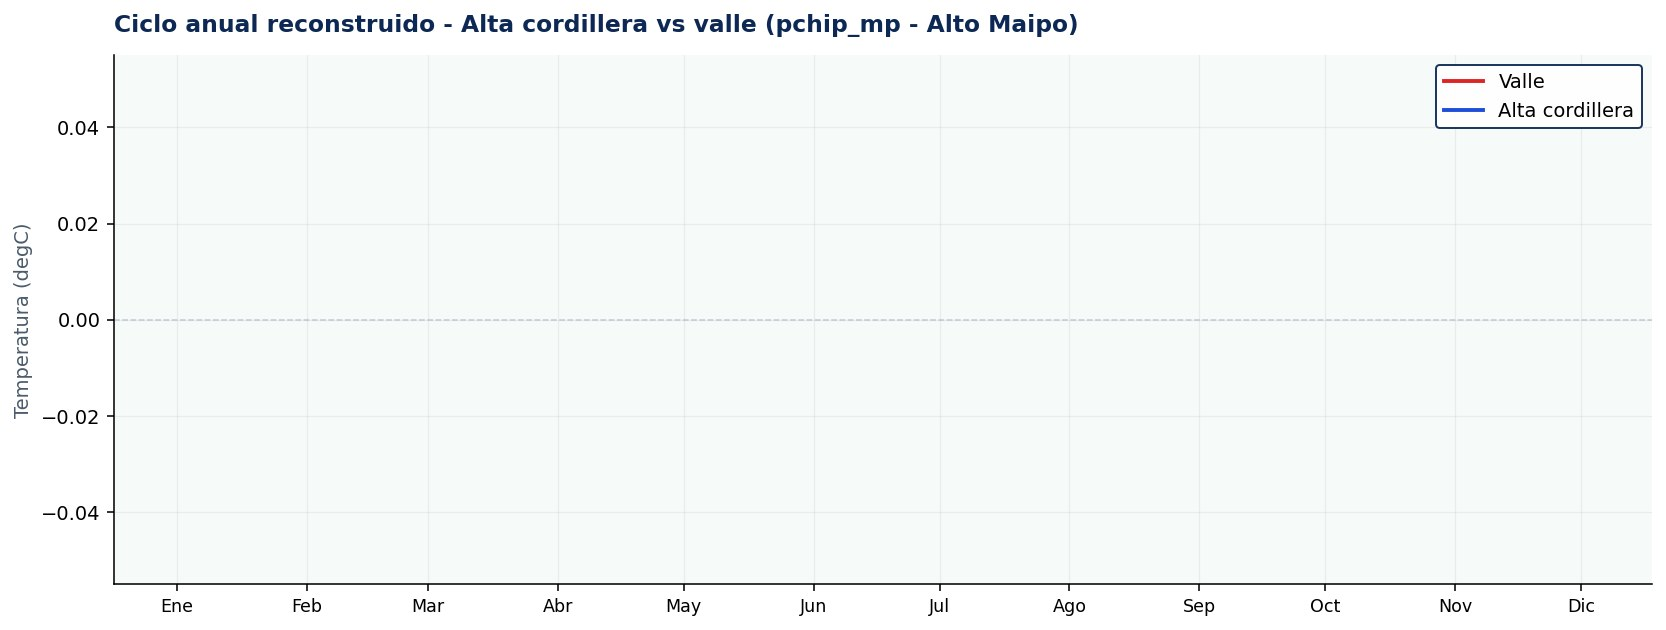
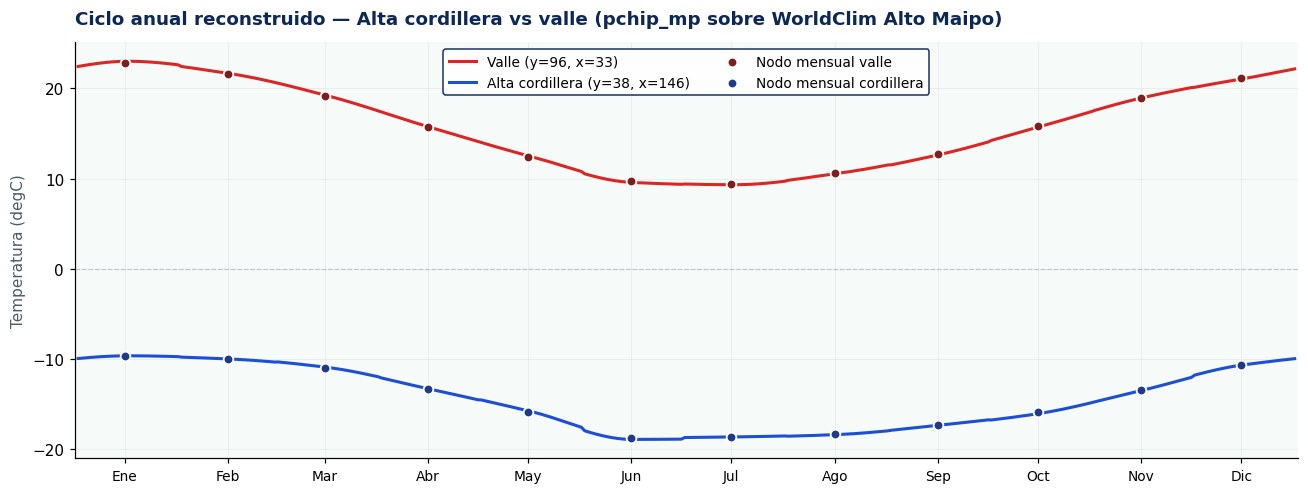
docs(landing): fill max|diff| for akima/cubic and regenerate Maipo figure
Métricas pendientes en la tabla "Métodos y conservación de media":

- akima  → 3.26 × 10⁻¹ °C
- cubic  → 2.82 × 10⁻¹ °C

Medidas sobre el sample sintético WorldClim Chile Central (12 GeoTIFFs →
365 días, target_year=2023, mismo procedimiento que los otros 4 métodos:
worst pixel-wise max|monthly_mean(daily) - monthly_input|).

Asset docs/assets/maipo_pixel_timeseries.jpg estaba vacío (ejes ±0.05 °C
sin trazos visibles). Regenerado desde el notebook 02 ejecutado contra
los WorldClim reales de Alto Maipo (pchip_mp, target_year=2024). El nuevo
gráfico muestra el contraste valle (~23→10 °C) vs alta cordillera
(~-10→-19 °C) con offset altitudinal de ~30 °C.

Scripts utilitarios añadidos para reproducibilidad:
- examples/bench_max_diff.py — recomputa la tabla completa.
- examples/regenerate_maipo_timeseries.py — regenera el JPG del Maipo.

diff --git a/docs/index.html b/docs/index.html
@@ -847,12 +847,12 @@
           <tr>
             <td><span class="method-name"><span class="swatch-bar" style="background:var(--m-akima)"></span>akima</span></td>
             <td>C¹ Akima 1970</td><td>Aproximada</td><td>Medio</td>
-            <td class="diff">agregado en v0.1.4</td>
+            <td class="diff">3.26 × 10⁻¹ °C</td>
           </tr>
           <tr>
             <td><span class="method-name"><span class="swatch-bar" style="background:var(--m-cubic)"></span>cubic</span></td>
             <td>C² spline natural</td><td>Aproximada</td><td>Medio</td>
-            <td class="diff">agregado en v0.1.4</td>
+            <td class="diff">2.82 × 10⁻¹ °C</td>
           </tr>
         </tbody>
       </table>

diff --git a/examples/regenerate_maipo_timeseries.py b/examples/regenerate_maipo_timeseries.py
@@ -1,0 +1,102 @@
+"""Regenera docs/assets/maipo_pixel_timeseries.jpg desde el notebook 02.
+
+Replica exactamente las celdas 5 + 9 + 16 del notebook 02-real-worldclim-maipo.ipynb,
+ejecutando el pipeline pchip_mp sobre WorldClim Alto Maipo y guardando la figura
+del ciclo anual reconstruido.
+"""
+
+from __future__ import annotations
+
+import datetime as _dt
+import shutil
+from pathlib import Path
+
+import matplotlib
+
+matplotlib.use("Agg")
+import matplotlib.pyplot as plt
+import numpy as np
+import rioxarray  # noqa: F401
+import xarray as xr
+
+from tempify.pipeline import PipelineConfig, TempifyPipeline
+
+STACK_PATH = Path("examples/data/worldclim_maipo_alto/wc1_6_maipo_alto_tavg_stack.tif")
+OUT_DIR = Path("examples/out/maipo_pchip_mp")
+ASSET_PATH = Path("docs/assets/maipo_pixel_timeseries.jpg")
+
+
+def main() -> None:
+    monthly = xr.load_dataarray(STACK_PATH)
+    print(f"Monthly: dims={monthly.dims}, shape={monthly.shape}")
+
+    if OUT_DIR.exists():
+        shutil.rmtree(OUT_DIR)
+    cfg = PipelineConfig(
+        method="pchip_mp",
+        target_year=2024,
+        output_dir=OUT_DIR,
+        output_format="netcdf",
+    )
+    result = TempifyPipeline(cfg).run(STACK_PATH)
+    daily = xr.load_dataarray(result.outputs[0])
+    print(f"Daily: shape={daily.shape}, dims={daily.dims}")
+
+    # Localizar pixel mas frio (cordillera) y mas calido (valle) en mes de enero
+    # (mismo criterio que el notebook).
+    jan = daily.isel(time=14).values
+    iy_cold, ix_cold = np.unravel_index(np.nanargmin(jan), jan.shape)
+    iy_warm, ix_warm = np.unravel_index(np.nanargmax(jan), jan.shape)
+
+    series_cold = daily.isel(y=iy_cold, x=ix_cold).values
+    series_warm = daily.isel(y=iy_warm, x=ix_warm).values
+    assert not np.isnan(series_cold).any()
+    assert not np.isnan(series_warm).any()
+
+    month_doy = [int(_dt.date(2024, m, 15).timetuple().tm_yday) for m in range(1, 13)]
+    month_cold = monthly.isel(band=slice(0, 12), y=iy_cold, x=ix_cold).values
+    month_warm = monthly.isel(band=slice(0, 12), y=iy_warm, x=ix_warm).values
+
+    print(f"Pixel cordillera: y={iy_cold}, x={ix_cold}  T_ene={jan[iy_cold, ix_cold]:.1f} degC")
+    print(f"Pixel valle:      y={iy_warm}, x={ix_warm}  T_ene={jan[iy_warm, ix_warm]:.1f} degC")
+
+    fig, ax = plt.subplots(figsize=(12, 4.6), dpi=110)
+    fig.patch.set_facecolor("#ffffff")
+    ax.set_facecolor("#f6faf8")
+    doy_all = np.arange(1, daily.sizes["time"] + 1)
+    ax.plot(doy_all, series_warm, color="#dc2626", linewidth=2.0,
+            label=f"Valle (y={iy_warm}, x={ix_warm})", zorder=3)
+    ax.plot(doy_all, series_cold, color="#1d4ed8", linewidth=2.0,
+            label=f"Alta cordillera (y={iy_cold}, x={ix_cold})", zorder=3)
+    ax.scatter(month_doy, month_warm, color="#7f1d1d", s=40,
+               edgecolors="white", linewidth=1.2, zorder=4, label="Nodo mensual valle")
+    ax.scatter(month_doy, month_cold, color="#1e3a8a", s=40,
+               edgecolors="white", linewidth=1.2, zorder=4, label="Nodo mensual cordillera")
+    ax.set_xlim(0, daily.sizes["time"] + 1)
+    ax.set_xticks([int(_dt.date(2024, m, 15).timetuple().tm_yday) for m in range(1, 13)])
+    ax.set_xticklabels(["Ene", "Feb", "Mar", "Abr", "May", "Jun",
+                        "Jul", "Ago", "Sep", "Oct", "Nov", "Dic"], fontsize=9)
+    ax.axhline(0, color="#94a3b8", linewidth=0.8, linestyle="--", alpha=0.5)
+    ax.set_ylabel("Temperatura (degC)", color="#4a5b6b", fontsize=10)
+    ax.set_title(
+        "Ciclo anual reconstruido — Alta cordillera vs valle (pchip_mp sobre WorldClim Alto Maipo)",
+        color="#0d2854", fontsize=12, fontweight="bold", pad=12, loc="left",
+    )
+    ax.grid(True, alpha=0.18, linewidth=0.6)
+    ax.spines["top"].set_visible(False)
+    ax.spines["right"].set_visible(False)
+    ax.legend(loc="upper center", framealpha=0.95, fontsize=9,
+              edgecolor="#0d2854", ncol=2)
+    plt.tight_layout()
+    ASSET_PATH.parent.mkdir(parents=True, exist_ok=True)
+    plt.savefig(ASSET_PATH, dpi=110, bbox_inches="tight", facecolor="white",
+                pil_kwargs={"quality": 88})
+    plt.close(fig)
+    print(f"\nFigura guardada: {ASSET_PATH} ({ASSET_PATH.stat().st_size // 1024} KB)")
+    print(f"Amplitud termica valle:      {series_warm.max() - series_warm.min():.1f} degC")
+    print(f"Amplitud termica cordillera: {series_cold.max() - series_cold.min():.1f} degC")
+    print(f"Offset valle vs cordillera:  {series_warm.mean() - series_cold.mean():.1f} degC")
+
+
+if __name__ == "__main__":
+    main()

diff --git a/examples/bench_max_diff.py b/examples/bench_max_diff.py
@@ -1,0 +1,66 @@
+"""Benchmark: max |diff| per method on the WorldClim Chile Central sample.
+
+Computes the worst pixel-wise discrepancy between the monthly mean
+reconstructed from the daily output and the original monthly input,
+for the six interpolation methods available in tempify.
+"""
+
+from __future__ import annotations
+
+import shutil
+from pathlib import Path
+
+import numpy as np
+import xarray as xr
+
+from tempify.pipeline import PipelineConfig, TempifyPipeline
+
+DATA_DIR = Path(__file__).parent / "data" / "worldclim_chile_central"
+OUT_ROOT = Path(__file__).parent / "out" / "bench_max_diff"
+METHODS = ["linear", "pchip", "pchip_mp", "fourier", "akima", "cubic"]
+
+
+def _aggregate_to_monthly(daily: xr.DataArray) -> xr.DataArray:
+    return daily.groupby(daily["time"].dt.month).mean(dim="time")
+
+
+def _load_monthly_input() -> xr.DataArray:
+    import rioxarray  # noqa: F401
+    arrays = []
+    for month in range(1, 13):
+        path = DATA_DIR / f"wc2.1_2.5m_tavg_{month:02d}.tif"
+        arrays.append(
+            xr.open_dataarray(path, engine="rasterio").squeeze("band", drop=True)
+        )
+    return xr.concat(arrays, dim="month").assign_coords(month=list(range(1, 13)))
+
+
+def _run(method: str) -> float:
+    out_dir = OUT_ROOT / method
+    if out_dir.exists():
+        shutil.rmtree(out_dir)
+    cfg = PipelineConfig(
+        method=method,
+        target_year=2023,
+        output_dir=out_dir,
+        output_format="netcdf",
+    )
+    result = TempifyPipeline(cfg).run(DATA_DIR)
+    daily = xr.open_dataarray(result.outputs[0])
+    monthly_input = _load_monthly_input()
+    monthly_recon = _aggregate_to_monthly(daily).transpose("month", "y", "x")
+    return float(np.max(np.abs(monthly_recon.values - monthly_input.values)))
+
+
+def main() -> None:
+    print(f"{'method':<10}  {'max |diff| (°C)':<22}  scientific")
+    print("-" * 60)
+    for m in METHODS:
+        d = _run(m)
+        mantissa = d / 10 ** np.floor(np.log10(d)) if d > 0 else 0.0
+        exponent = int(np.floor(np.log10(d))) if d > 0 else 0
+        print(f"{m:<10}  {d:<22.6e}  {mantissa:.2f} × 10^{exponent}")
+
+
+if __name__ == "__main__":
+    main()